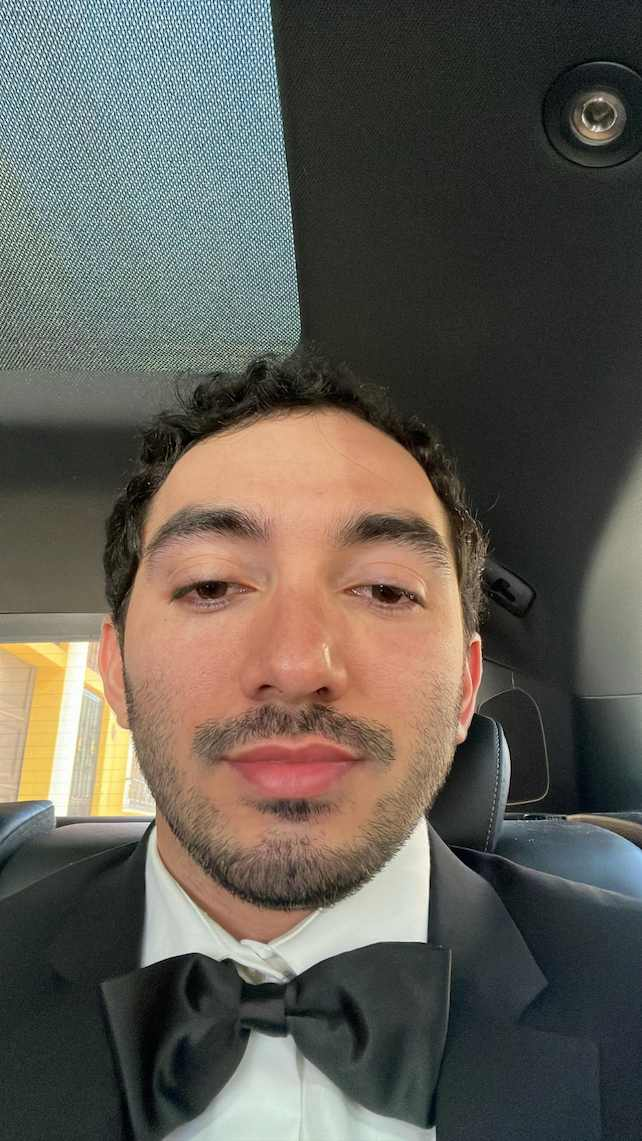
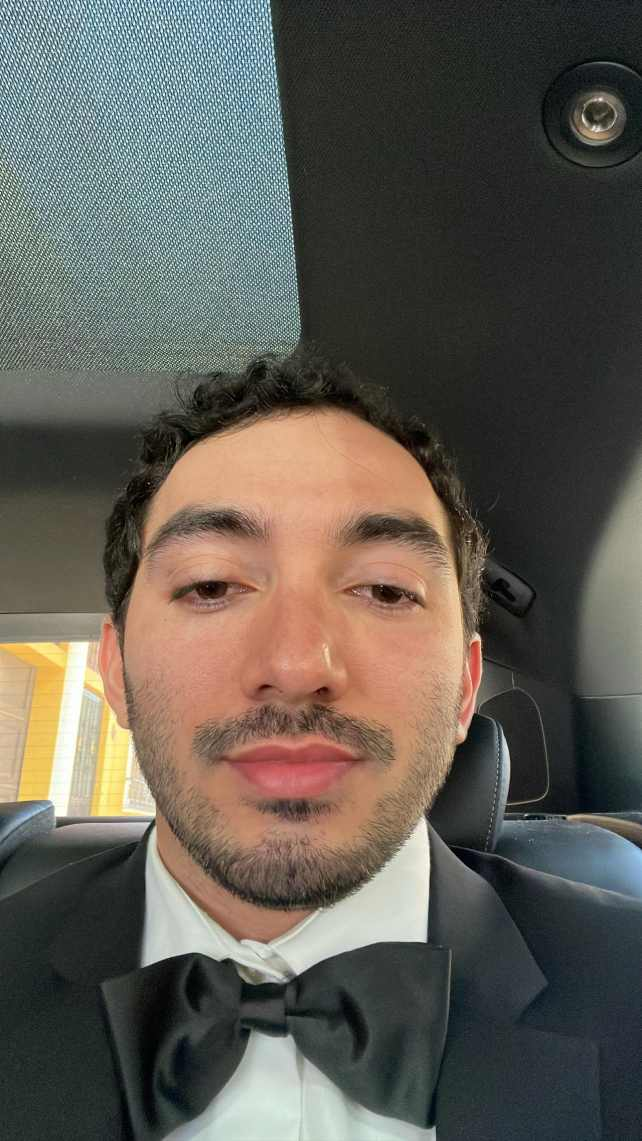
sync

Changed region(s): [[0.0, 0.0, 0.4673, 0.3374], [0.405, 0.1534, 0.4673, 0.184]]

diff --git a/index.html b/index.html
@@ -19,7 +19,7 @@
     </header>
     <main>
         <h1>ARTURO SANTOS | WDD 130</h1>
-        <img src="images/profile.jpg" alt="This is me. Nice to meet y'all!">
+        <img src="images/profile.jpg" alt="This is me. Nice to meet you.">
         <p>Hola! My name is Arturo Santos, mexican data analyst with experience in sales and client relations for hospitality and a background in real estate project management. I am fluent in english (c2), spanish (native) and french (B1). </p>
     </main>
     <aside>
